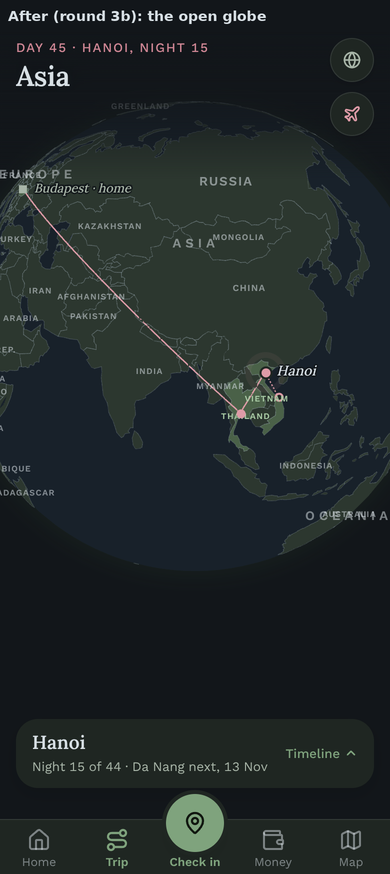
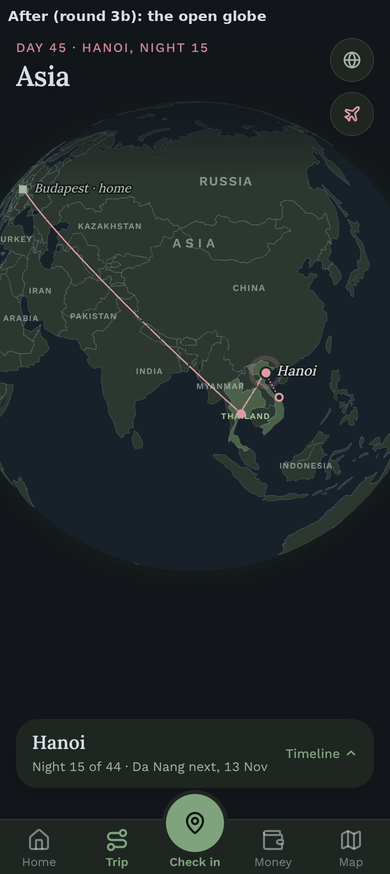
Trip's globe: the pictures with the names kept apart; the notes
Claude-Session: https://claude.ai/code/session_01Y4cNLRyg5RPwirJJGrzXfV

diff --git a/docs/NOTES.md b/docs/NOTES.md
@@ -7,6 +7,28 @@ when a decision needs to survive the conversation it was made in.
 
 ## 2026-10-14
 
+### BUILT — Trip's globe: the names kept apart, the plane flies the replay (Petra, 14 Oct)
+
+Petra's two findings on #193, on her phone:
+- **The countries' names crowded and overlapped** towards the globe's edge and ghosted under
+  the title. The web had no overlap check; the phone's `drawNames` has one (`hit`) and a
+  `facing` rule. Now, once per frame, every name claims its box on the screen in the order
+  given (the stops' names, the continents, then the countries, your journey's first, then by
+  size) and yields to one already there; none sits near the globe's edge (beyond 92 % of its
+  radius) or in the band under the kicker and the title. globe.gl's own visibility callback
+  only fires when occlusion changes, so the pass is a `requestAnimationFrame` loop of the
+  globe's own, idle while the globe is paused.
+- **The replay shows the plane** (a dot on a ground leg), flying each leg along the great
+  circle a little ahead of the line as it is drawn, turned the way it goes (the phone's
+  `drawVehicle`; the icon is lucide's plane with a canvas stroke and a soft shadow). It is a
+  plain element over the globe, placed with `getScreenCoords` each frame.
+
+The headless Chromium of the screenshot pipeline draws the globe at a frame or two a second
+(no GPU), so a picture of the replay is luck; none is kept. Pictures of the rest refreshed in
+`docs/web-ios-redesign/round3b-*.png`.
+
+iOS: nothing new.
+
 ### LIVE — round 3b of the redesign, the globe on top of Trip (Petra, 14 Oct; #193)
 
 #193 merged with Petra's "yes" after the validation step; Vercel built `37afcce`. Petra on her
